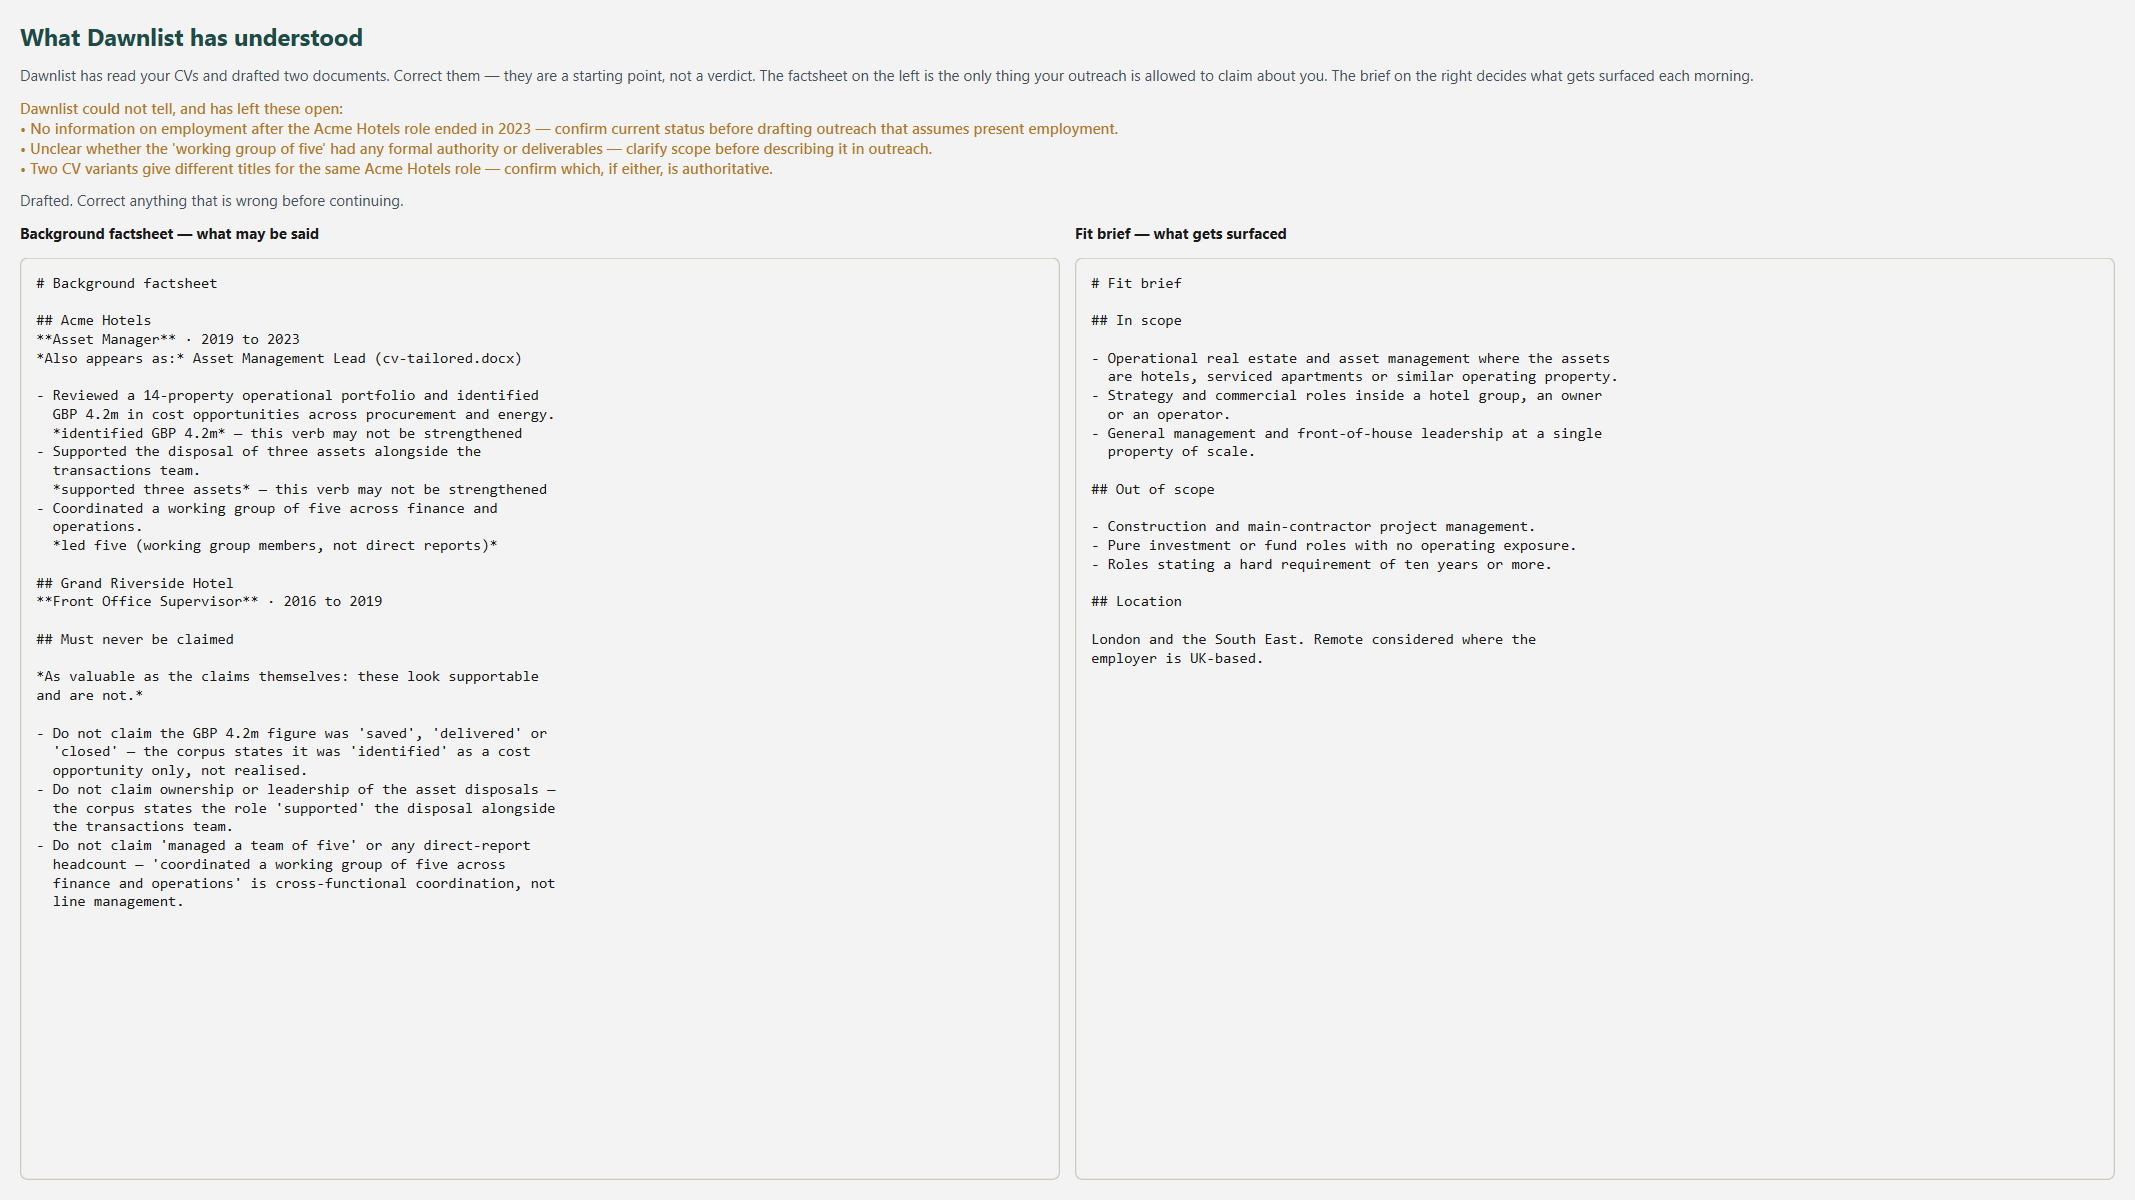
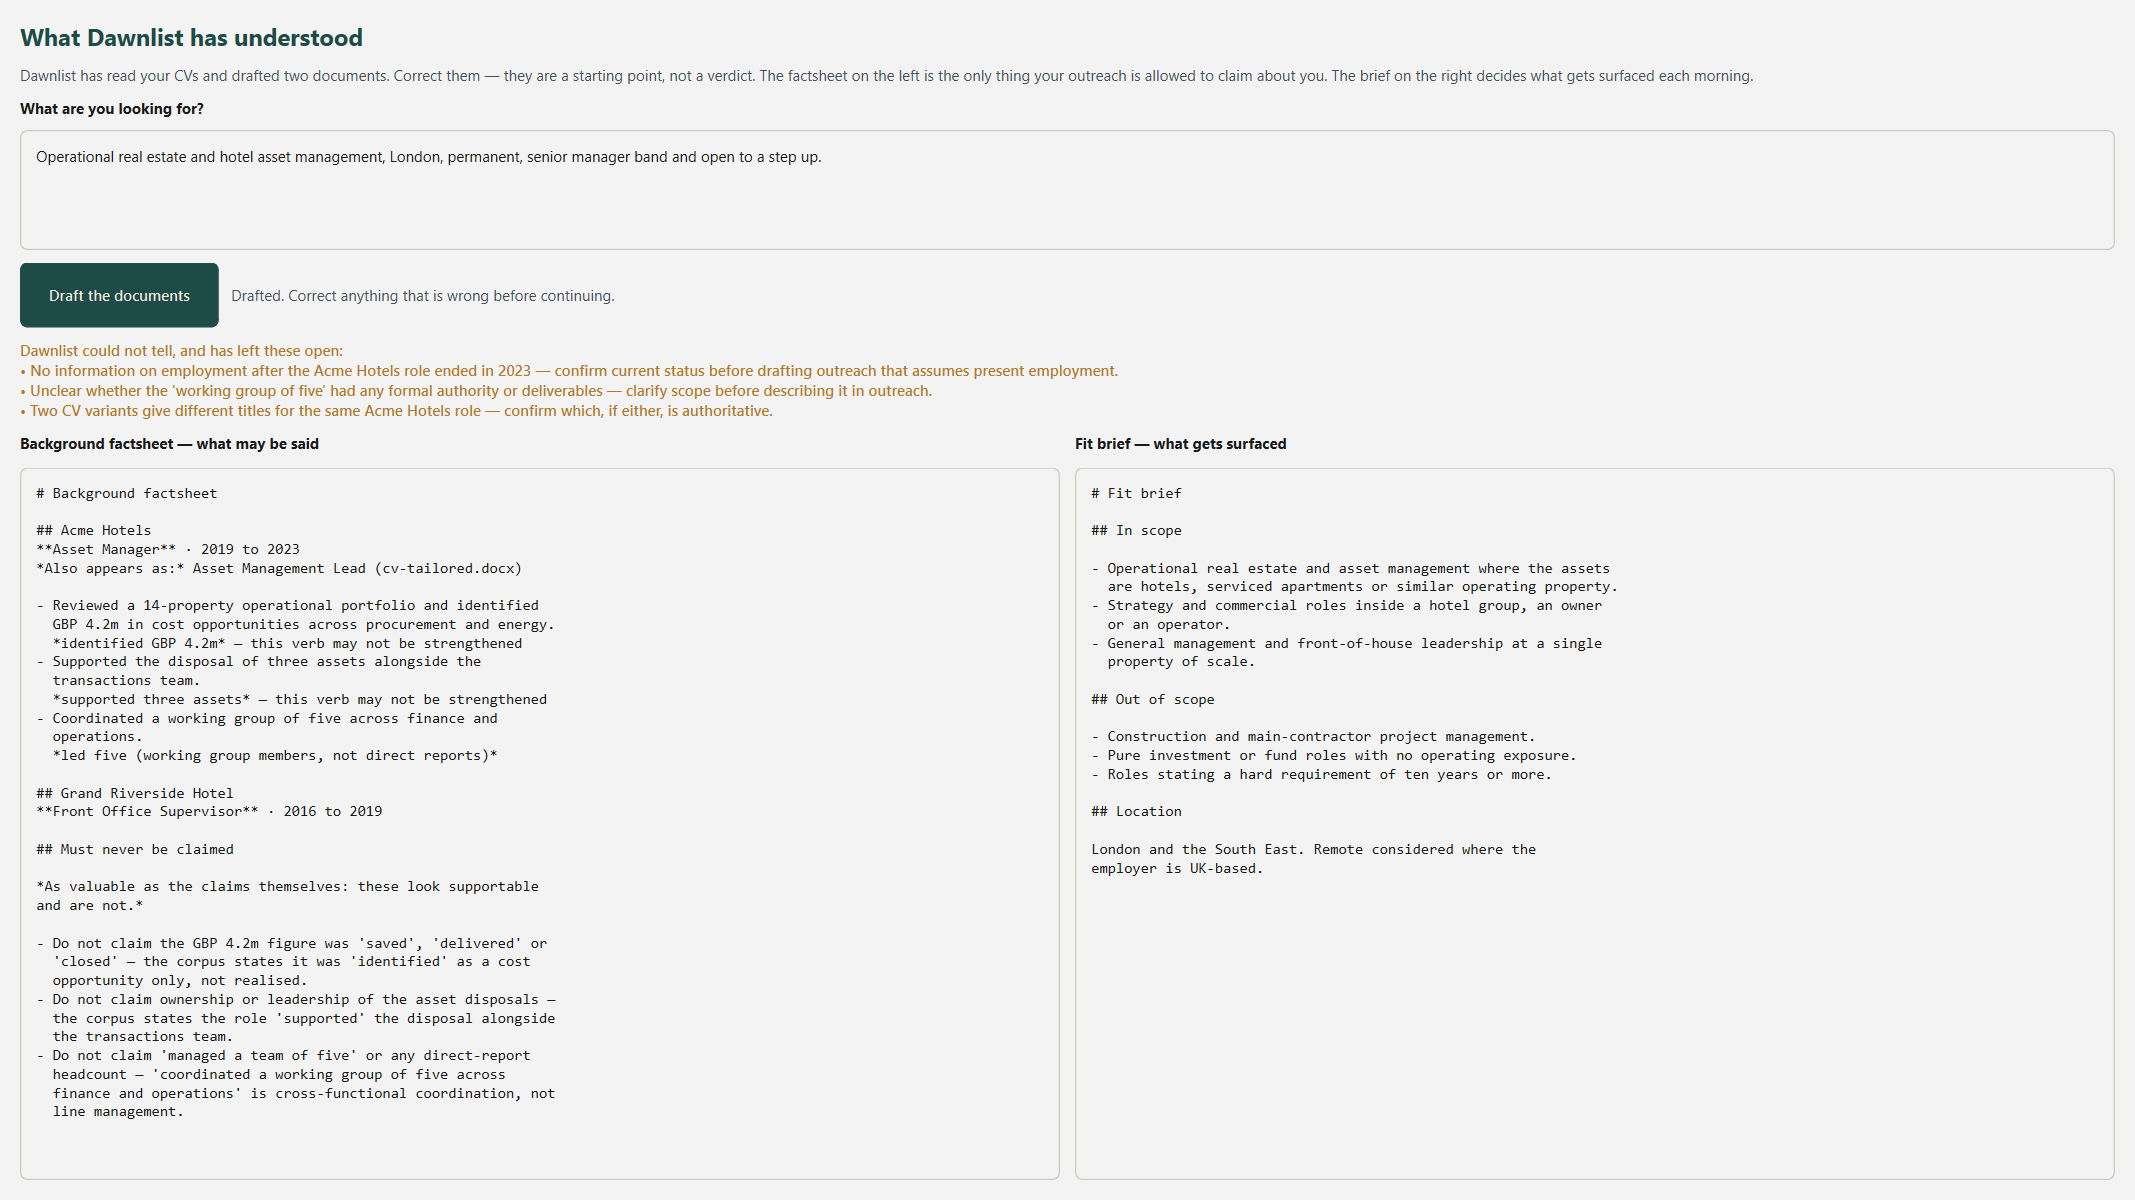
Ask what the user is looking for, instead of guessing at it
`stated_aim` was a parameter of `build_brief_request` that nothing ever filled
— the same shape as `build_factsheet_request` having no caller. The wizard
never asked what the user wanted, so the brief was inferred from CVs alone.

A CV records what someone has done. It does not say what they want next, and
the brief drafted against Spencer's real five-CV corpus showed exactly what
that costs: it guessed at the target, the seniority direction, the location,
permanent versus contract and the salary floor, then closed with six standing
questions. Five of the six are one sentence from the person sitting in front
of it.

Worse than incomplete, it was confidently wrong in one place. It put general
management and front-of-house leadership under "what looks like a fit but is
not" and excluded them — a defensible inference from the CVs, and the opposite
of one of the three legs Spencer is actually searching.

Measured, same corpus, one sentence of aim: unknowns 6 to 2, question marks 11
to 5, and the GM leg moved from an exclusion to a named target.

So the interview step now opens with the aim box, above a Draft button, and no
longer drafts on arrival — drafting the moment the step opened would spend the
user's money on a brief written before they had said anything. The draft can be
re-run with a corrected aim, because a first attempt that guessed wrong should
be one sentence away from a better one rather than a restart. An empty aim
[…]

diff --git a/app/ui/onboarding.py b/app/ui/onboarding.py
@@ -471,8 +471,10 @@ class InterviewPage(QWidget):
 
     def __init__(self, *, drafter=None, parent=None):
         super().__init__(parent)
-        self._draft = drafter          # (corpus) -> (factsheet_md, brief_md, questions)
+        #: (corpus, aim) -> (factsheet_md, brief_md, questions)
+        self._draft = drafter
         self._questions: list[str] = []
+        self._corpus = None
 
         layout = QVBoxLayout(self)
         layout.setContentsMargins(16, 16, 16, 16)
@@ -487,15 +489,41 @@ class InterviewPage(QWidget):
         body.setWordWrap(True)
         layout.addWidget(body)
 
+        # The aim, in the user's own words, BEFORE anything is drafted.
+        #
+        # Without it the brief is inferred from CVs alone, and a CV says what
+        # someone has done rather than what they want next. Drafted that way
+        # against a real corpus, the brief guessed at the target, the seniority
+        # direction, the location, permanent versus contract and the salary
+        # floor — and closed with six questions it had no way to answer. Five
+        # of the six are one sentence from the person sitting in front of it.
+        aim_label = QLabel(tr("onboarding.aim_label"))
+        f = QFont()
+        f.setBold(True)
+        aim_label.setFont(f)
+        layout.addWidget(aim_label)
+
+        self.aim = QPlainTextEdit()
+        self.aim.setObjectName("aimBox")
+        self.aim.setPlaceholderText(tr("onboarding.aim_placeholder"))
+        self.aim.setMaximumHeight(96)
+        layout.addWidget(self.aim)
+
+        row = QHBoxLayout()
+        self.btn_draft = QPushButton(tr("onboarding.draft"))
+        self.btn_draft.setObjectName("primary")
+        self.btn_draft.setSizePolicy(QSizePolicy.Preferred, QSizePolicy.Fixed)
+        row.addWidget(self.btn_draft)
+        self.status = QLabel()
+        self.status.setObjectName("stepBody")
+        row.addWidget(self.status, 1)
+        layout.addLayout(row)
+
         self.questions = QLabel()
         self.questions.setObjectName("disagreement")
         self.questions.setWordWrap(True)
         self.questions.hide()
         layout.addWidget(self.questions)
-
-        self.status = QLabel()
-        self.status.setObjectName("stepBody")
-        layout.addWidget(self.status)
 
         split = QHBoxLayout()
         split.setSpacing(12)
@@ -521,19 +549,39 @@ QPlainTextEdit#docEditor {
     padding: 8px;
     font-family: Consolas, monospace;
 }
+QPlainTextEdit#aimBox {
+    border: 1px solid #cfcabf;
+    border-radius: 6px;
+    padding: 8px;
+}
 """)
+        self.btn_draft.clicked.connect(lambda: self.run_draft())
 
-    def run_draft(self, corpus) -> None:
-        """Draft both documents. Failures are shown, never swallowed."""
+    def run_draft(self, corpus=None) -> None:
+        """Draft both documents. Failures are shown, never swallowed.
+
+        The corpus is remembered from the first call so the Draft button can
+        re-run with a corrected aim — a first attempt whose brief guessed wrong
+        should be one sentence away from a better one, not a restart.
+        """
+        if corpus is not None:
+            self._corpus = corpus
+        if self._corpus is None:
+            return
+
+        self.btn_draft.setEnabled(False)
         self.status.setText(tr("onboarding.drafting"))
         self.status.repaint()
         try:
-            factsheet, brief, questions = self._draft(corpus)
+            factsheet, brief, questions = self._draft(
+                self._corpus, self.aim.toPlainText().strip())
         except Exception as exc:  # noqa: BLE001
             # The user can still write their own; a failed draft must not be a
             # dead end, and it must not look like an empty one either.
             self.status.setText(tr("onboarding.draft_failed", reason=str(exc)[:200]))
             return
+        finally:
+            self.btn_draft.setEnabled(True)
 
         self.factsheet.setPlainText(factsheet)
         self.brief.setPlainText(brief)
@@ -544,6 +592,10 @@ QPlainTextEdit#docEditor {
             self.questions.show()
         self.status.setText(tr("onboarding.drafted"))
         self.drafted.emit()
+
+    def set_corpus(self, corpus) -> None:
+        """Hand over the documents without spending anything yet."""
+        self._corpus = corpus
 
     def documents(self) -> tuple[str, str]:
         return self.factsheet.toPlainText(), self.brief.toPlainText()
@@ -653,8 +705,11 @@ class OnboardingWizard(QWidget):
             self._show_step(1)
         elif index == 1:
             self._show_step(2)
+            # Hand over the corpus but do NOT draft: the aim box is above the
+            # button for a reason, and drafting on arrival would spend the
+            # user's money on a brief drafted before they said anything.
             if self._corpus is not None and not self.interview.has_content:
-                self.interview.run_draft(self._corpus)
+                self.interview.set_corpus(self._corpus)
         elif index == 2:
             factsheet, brief = self.interview.documents()
             self.documents_ready.emit(factsheet, brief)

diff --git a/tests/test_ui_onboarding.py b/tests/test_ui_onboarding.py
@@ -256,7 +256,7 @@ def test_the_interview_drafts_both_documents(qapp, monkeypatch):
     from app.ui.onboarding import InterviewPage
 
     monkeypatch.setattr(api_key, "get", lambda: "sk-ant-stored")
-    page = InterviewPage(drafter=lambda corpus: (
+    page = InterviewPage(drafter=lambda corpus, aim: (
         "# Background factsheet\n\nAcme Hotels.",
         "# Fit brief\n\nHospitality strategy.",
         ["Did the 2019 role include line management?"]))
@@ -273,7 +273,7 @@ def test_a_failed_draft_is_not_a_dead_end(qapp):
     """It must not look like an empty draft either."""
     from app.ui.onboarding import InterviewPage
 
-    def boom(corpus):
+    def boom(corpus, aim):
         raise RuntimeError("Anthropic rejected that key")
 
     page = InterviewPage(drafter=boom)
@@ -288,7 +288,7 @@ def test_the_two_documents_are_kept_apart(qapp):
     """The factsheet governs what may be SAID; the brief what gets SURFACED.
     Merging them is how an ambition quietly becomes a claim."""
     from app.ui.onboarding import InterviewPage
-    page = InterviewPage(drafter=lambda c: ("FACTS", "BRIEF", []))
+    page = InterviewPage(drafter=lambda c, aim: ("FACTS", "BRIEF", []))
     page.run_draft(["cv"])
     factsheet, brief = page.documents()
     assert factsheet == "FACTS" and brief == "BRIEF"
@@ -315,3 +315,81 @@ def test_next_is_enabled_once_a_key_is_present(qapp, monkeypatch):
     w._show_step(1)
     assert w.btn_next.isEnabled()
     w.close()
+
+
+# -- the aim ----------------------------------------------------------------
+def test_the_user_is_asked_what_they_are_looking_for(qapp):
+    """`stated_aim` was a parameter nothing ever filled. Drafted from CVs
+    alone against a real corpus, the brief guessed at the target, the seniority
+    direction, the location, permanent versus contract and the salary floor,
+    then closed with six questions — five of which are one sentence from the
+    person sitting in front of it."""
+    from app.ui.onboarding import InterviewPage
+    seen = {}
+
+    def drafter(corpus, aim):
+        seen["aim"] = aim
+        return "FACTS", "BRIEF", []
+
+    page = InterviewPage(drafter=drafter)
+    page.set_corpus(["cv.docx"])
+    page.aim.setPlainText("Hotel asset management in London, senior manager "
+                          "band, permanent, not below £85k.")
+    page.run_draft()
+    assert "£85k" in seen["aim"]
+    page.close()
+
+
+def test_the_aim_box_sits_above_the_draft_button(qapp):
+    """Drafting on arrival would spend the user's money on a brief written
+    before they said anything, so the box has to come first on screen."""
+    from app.ui.onboarding import InterviewPage
+    page = InterviewPage(drafter=lambda c, a: ("F", "B", []))
+    page.resize(1200, 700)
+    page.show()                     # geometry is 0,0 until a layout pass runs
+    for _ in range(4):
+        qapp.processEvents()
+    assert page.aim.y() < page.btn_draft.y()
+    page.close()
+
+
+def test_entering_the_step_does_not_draft(qapp, monkeypatch):
+    from app.core import api_key
+    from app.ui.onboarding import OnboardingWizard
+
+    monkeypatch.setattr(api_key, "get", lambda: "sk-ant-stored")
+    calls = []
+    w = OnboardingWizard(extract=lambda p: (["cv.docx"], []),
+                         sample=lambda: items(1),
+                         drafter=lambda c, a: calls.append(1) or ("F", "B", []))
+    w._corpus = ["cv.docx"]
+    w._show_step(1)
+    w._next()                       # arrives at the interview
+    assert calls == [], "drafted before the user said anything"
+    w.close()
+
+
+def test_the_draft_can_be_re_run_with_a_corrected_aim(qapp):
+    """A first attempt whose brief guessed wrong should be one sentence away
+    from a better one, not a restart."""
+    from app.ui.onboarding import InterviewPage
+    aims = []
+    page = InterviewPage(
+        drafter=lambda c, a: (aims.append(a) or ("F", f"BRIEF for {a}", [])))
+    page.set_corpus(["cv.docx"])
+    page.run_draft()
+    page.aim.setPlainText("Actually, London only.")
+    page.btn_draft.click()
+    assert aims == ["", "Actually, London only."]
+    assert "London only" in page.brief.toPlainText()
+    page.close()
+
+
+def test_an_empty_aim_still_drafts(qapp):
+    """Someone who does not want to type should still get a draft to correct."""
+    from app.ui.onboarding import InterviewPage
+    page = InterviewPage(drafter=lambda c, a: ("F", "B", []))
+    page.set_corpus(["cv.docx"])
+    page.run_draft()
+    assert page.has_content
+    page.close()

diff --git a/app/main.py b/app/main.py
@@ -603,8 +603,13 @@ def _launch_onboarding(app, conn) -> int:
             app_reason=("a feed credential is needed before Dawnlist can "
                         "fetch the postings you calibrate against"))]
 
-    def drafter(paths):
-        """CVs in, factsheet and brief out, on the user's own key."""
+    def drafter(paths, aim=""):
+        """CVs in, factsheet and brief out, on the user's own key.
+
+        `aim` is what the user says they are looking for. Without it the brief
+        is inferred from CVs alone — and a CV records what someone has done,
+        never what they want next.
+        """
         import json
 
         from app.core import api_key
@@ -634,7 +639,7 @@ def _launch_onboarding(app, conn) -> int:
         raw = call(build_factsheet_request(corpus))
         data = json.loads(raw)
         factsheet = render_factsheet(data)
-        brief = call(build_brief_request(corpus, ""))
+        brief = call(build_brief_request(corpus, aim))
         return factsheet, brief, open_questions(data)
 
     wizard = OnboardingWizard(extract=extract, sample=sample, drafter=drafter)

diff --git a/tools/render_interview.py b/tools/render_interview.py
@@ -99,8 +99,11 @@ def render_hidden(widget, size):
 def build_interview():
     """The interview step, drafted. Returns the page."""
 
-    page = InterviewPage(drafter=lambda corpus: (FACTSHEET, BRIEF, QUESTIONS))
+    page = InterviewPage(drafter=lambda corpus, aim: (FACTSHEET, BRIEF, QUESTIONS))
     render_hidden(page, STORE_SIZE)
+    page.aim.setPlainText(
+        "Operational real estate and hotel asset management, London, "
+        "permanent, senior manager band and open to a step up.")
     page.run_draft(["cv-2023.docx", "cv-tailored.docx"])
     for _ in range(8):
         QApplication.instance().processEvents()
